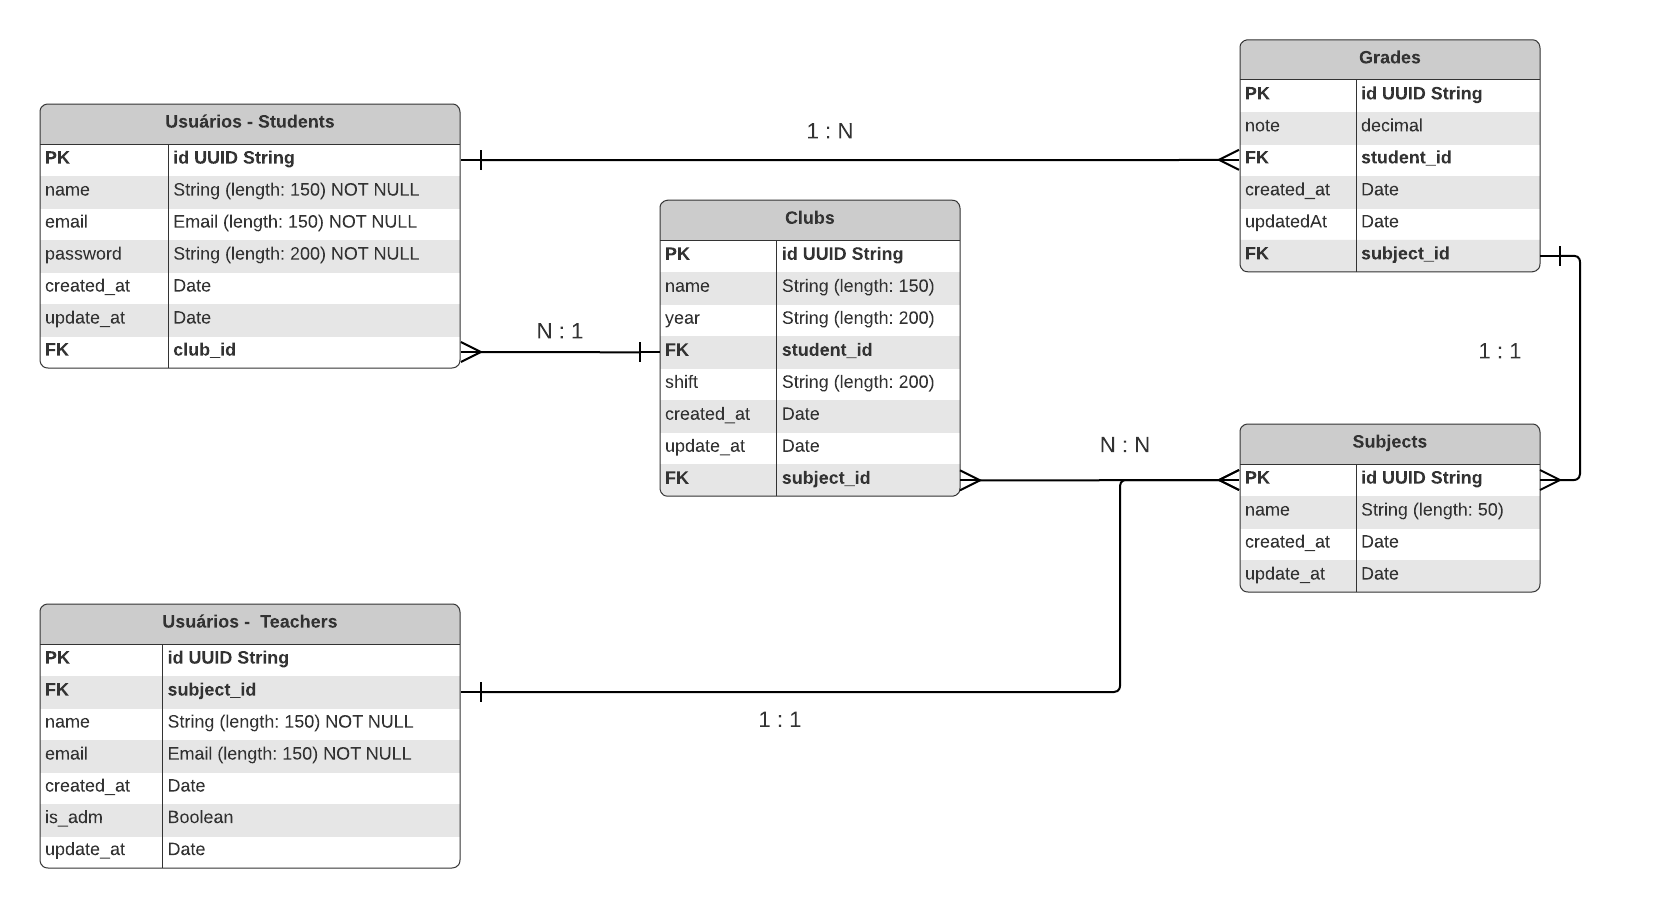
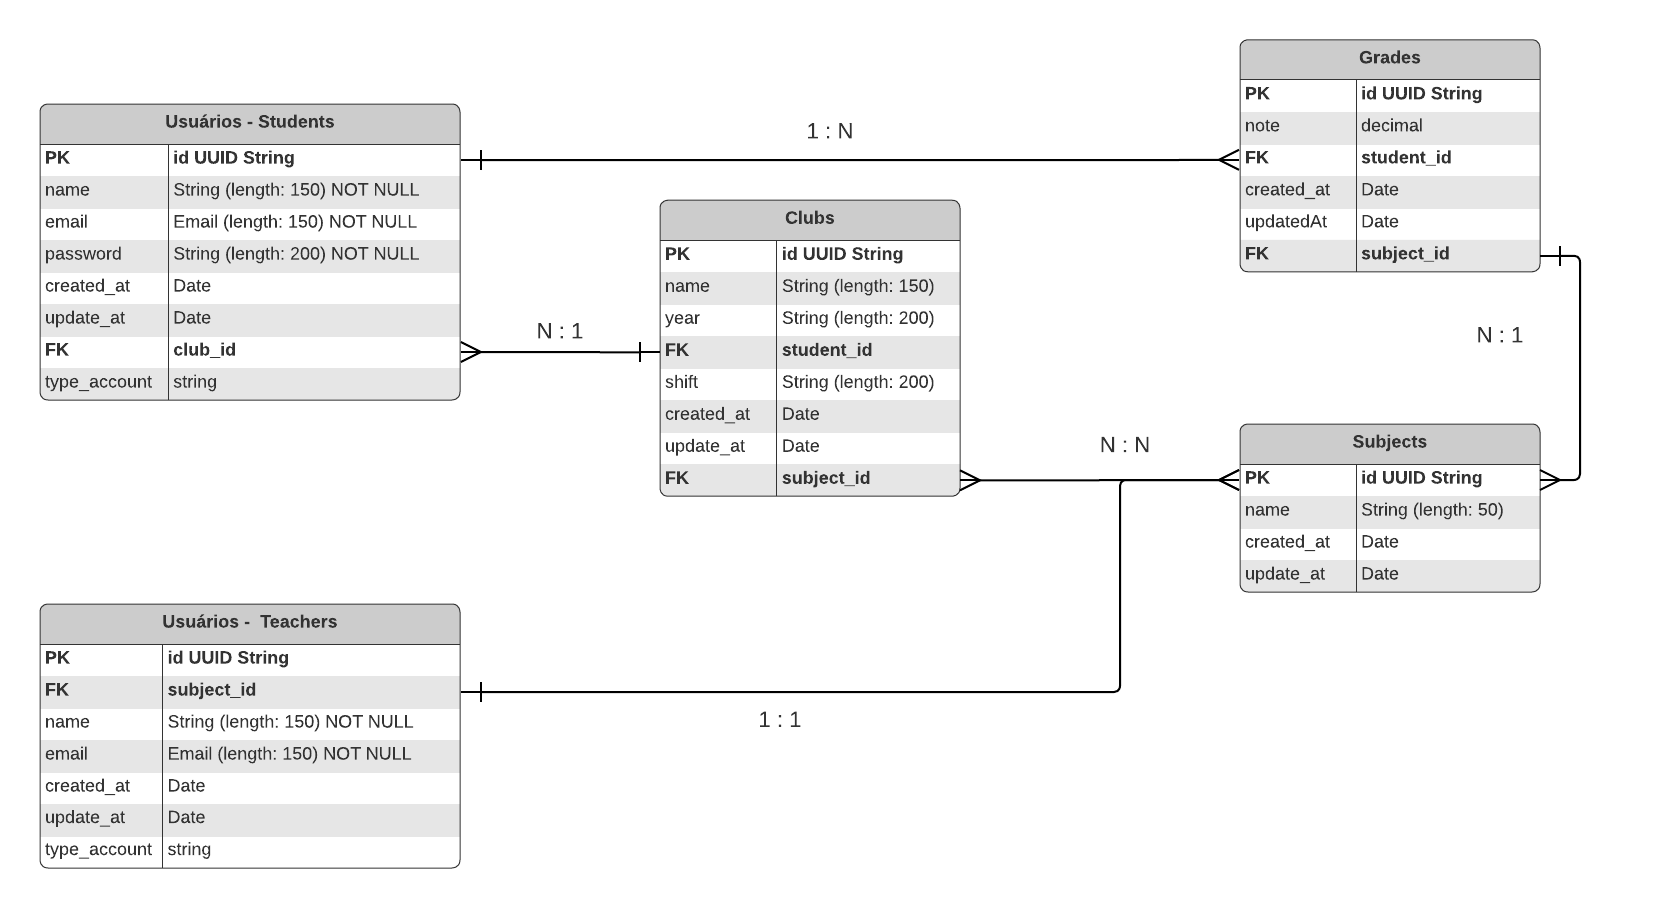
fix: clean code

Changed region(s): [[0.0, 0.4009, 0.2765, 0.4626], [0.0307, 0.8943, 0.1536, 0.9559], [0.891, 0.37, 0.9217, 0.4009]]

diff --git a/grades/models.py b/grades/models.py
@@ -6,13 +6,15 @@ from django.core.validators import MinValueValidator, MaxValueValidator
 class Grade(models.Model):
     id = models.UUIDField(default=uuid.uuid4, primary_key=True, editable=False)
 
-    note = models.DecimalField(max_digits=2, decimal_places=1, validators=[MinValueValidator(0), MaxValueValidator(10)])
+    note = models.DecimalField(max_digits=3, decimal_places=1, validators=[MinValueValidator(0), MaxValueValidator(10)])
     created_at = models.DateTimeField(auto_now_add=True)
     updated_at = models.DateTimeField(auto_now=True)
 
-    # 1:1 - Subject 
+    # N:1 - Subject 
 
-    subject = models.OneToOneField("subjects.Subject", on_delete=models.CASCADE)
+    subject = models.ForeignKey(
+        "subjects.Subject", on_delete=models.CASCADE
+    )
     
     #  N : 1 - Student
     student = models.ForeignKey(

diff --git a/grades/migrations/0004_alter_grade_note.py b/grades/migrations/0004_alter_grade_note.py
@@ -1,0 +1,25 @@
+# Generated by Django 4.1.7 on 2023-03-01 06:42
+
+import django.core.validators
+from django.db import migrations, models
+
+
+class Migration(migrations.Migration):
+    dependencies = [
+        ("grades", "0003_alter_grade_note"),
+    ]
+
+    operations = [
+        migrations.AlterField(
+            model_name="grade",
+            name="note",
+            field=models.DecimalField(
+                decimal_places=1,
+                max_digits=3,
+                validators=[
+                    django.core.validators.MinValueValidator(0),
+                    django.core.validators.MaxValueValidator(10),
+                ],
+            ),
+        ),
+    ]

diff --git a/grades/migrations/0005_alter_grade_subject.py b/grades/migrations/0005_alter_grade_subject.py
@@ -1,0 +1,21 @@
+# Generated by Django 4.1.7 on 2023-03-01 07:01
+
+from django.db import migrations, models
+import django.db.models.deletion
+
+
+class Migration(migrations.Migration):
+    dependencies = [
+        ("subjects", "0004_rename_user_subject_teacher"),
+        ("grades", "0004_alter_grade_note"),
+    ]
+
+    operations = [
+        migrations.AlterField(
+            model_name="grade",
+            name="subject",
+            field=models.ForeignKey(
+                on_delete=django.db.models.deletion.CASCADE, to="subjects.subject"
+            ),
+        ),
+    ]

diff --git a/grades/serializers.py b/grades/serializers.py
@@ -8,7 +8,7 @@ from django.core.validators import MinValueValidator, MaxValueValidator
 
 class GradeSerializer(serializers.Serializer):
     id = serializers.UUIDField(read_only=True)
-    note = serializers.DecimalField(max_digits=2, decimal_places=1, validators=[MinValueValidator(0), MaxValueValidator(10)])
+    note = serializers.DecimalField(max_digits=3, decimal_places=1, validators=[MinValueValidator(0), MaxValueValidator(10)])
     student = UserSerializer(read_only=True)
     subject = SubjectSerializer(read_only=True)
     created_at = serializers.DateTimeField(read_only=True)

diff --git a/users/views.py b/users/views.py
@@ -3,7 +3,7 @@ from clubs.models import Club
 from .serializers import UserSerializer
 from rest_framework.generics import ListCreateAPIView, RetrieveUpdateDestroyAPIView
 from rest_framework_simplejwt.authentication import JWTAuthentication
-from .permissions import IsAdmin, IsAuthenticatedOrPost, IsStudent, IsTeacher, IsAccountOwner
+from .permissions import IsAdmin, IsAuthenticatedOrPost, IsAccountOwner
 from rest_framework.views import Response, status
 from django.shortcuts import get_object_or_404
 

diff --git a/grades/views.py b/grades/views.py
@@ -1,7 +1,7 @@
 from .models import Grade
 from .serializers import GradeSerializer
 from rest_framework_simplejwt.authentication import JWTAuthentication
-from rest_framework.permissions import IsAuthenticatedOrReadOnly, AllowAny
+from rest_framework.permissions import AllowAny
 from users.permissions import IsTeacher, IsAdmin
 from django.shortcuts import get_object_or_404
 from users.models import User

diff --git a/subjects/views.py b/subjects/views.py
@@ -4,7 +4,6 @@ from rest_framework.generics import ListCreateAPIView, RetrieveUpdateDestroyAPIV
 from .models import Subject
 from users.models import User
 from .serializers import SubjectSerializer
-from .permissions import IsAdminOrSubjectOwner
 from users.permissions import IsAdmin, IsTeacher
 from django.shortcuts import get_object_or_404
 from rest_framework.views import Response, status

diff --git a/users/serializers.py b/users/serializers.py
@@ -1,11 +1,8 @@
 from rest_framework import serializers
-from rest_framework.validators import UniqueValidator
 from .models import User, typeOptions
-from clubs.serializers import ClubSerializer
 
 
 class UserSerializer(serializers.ModelSerializer):
-    # club = ClubSerializer(read_only=True)
 
     class Meta:
         model = User

diff --git a/clubs/models.py b/clubs/models.py
@@ -8,7 +8,6 @@ class typeOptions(models.TextChoices):
     NIGHT = "night"
 
 
-# Create your models here.
 class Club(models.Model):
     id = models.UUIDField(default=uuid.uuid4, primary_key=True, editable=False)
     name = models.CharField(max_length=50, null=False, blank=False)

diff --git a/subjects/serializers.py b/subjects/serializers.py
@@ -1,7 +1,6 @@
 from rest_framework import serializers
 from .models import Subject
 from users.serializers import UserSerializer
-from django.core.exceptions import ValidationError
 
 
 class SubjectSerializer(serializers.ModelSerializer):
